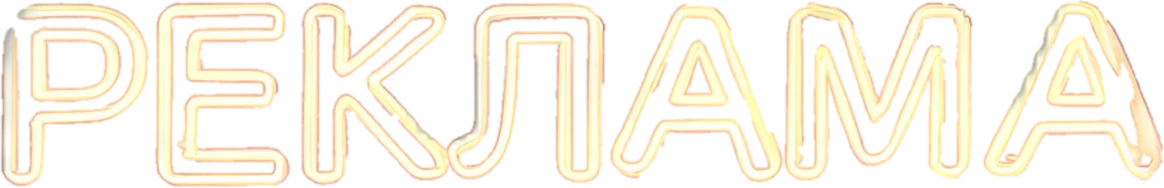
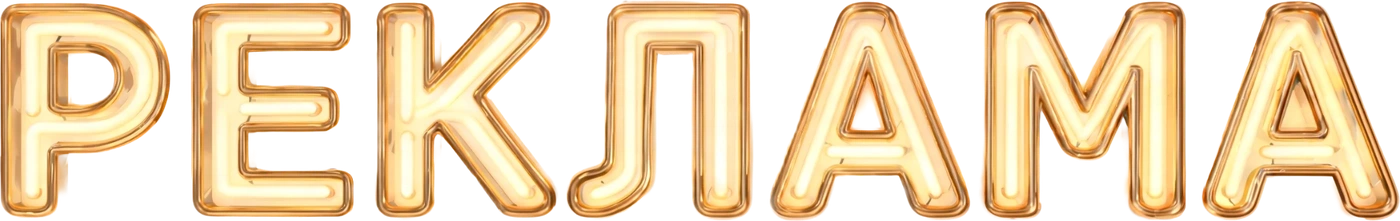
Film rack: use the user's clean sign PNGs and clean rack image
Claude-Session: https://claude.ai/code/session_01X7KSM4KdRvb3cH9kiQoQVN

diff --git a/museum-app/src/components/FilmShelf.jsx b/museum-app/src/components/FilmShelf.jsx
@@ -4,11 +4,11 @@ import './FilmShelf.css'
 
 const BASE = import.meta.env.BASE_URL
 
-// Three shelves of the film-reel rack. Positions are % of the picture (1200x1031).
+// Three shelves of the film-reel rack. Positions are % of the picture (2000x1718).
 export const FILM_SHELVES = [
-  { id: 'animation', label: 'Анимация', top: 9, h: 27, neon: { left: 30.2, top: 5.3, width: 39.6 }, seo: 'Анимация видео' },
-  { id: 'ads', label: 'Реклама', top: 41, h: 27, neon: { left: 33.4, top: 36.2, width: 33.3 }, seo: 'Рекламные ролики' },
-  { id: 'cinema', label: 'Кино', top: 73, h: 25, neon: { left: 40, top: 65.5, width: 20 }, seo: 'Кинематографические ролики' },
+  { id: 'animation', label: 'Анимация', top: 9, h: 27, neon: { left: 30, top: 5.65, width: 40 }, seo: 'Анимация видео' },
+  { id: 'ads', label: 'Реклама', top: 41, h: 27, neon: { left: 33.5, top: 36.25, width: 33 }, seo: 'Рекламные ролики' },
+  { id: 'cinema', label: 'Кино', top: 73, h: 25, neon: { left: 40, top: 65.85, width: 20 }, seo: 'Кинематографические ролики' },
 ]
 
 export const FILM_TITLES = { animation: 'Анимация', ads: 'Реклама', cinema: 'Кино' }
